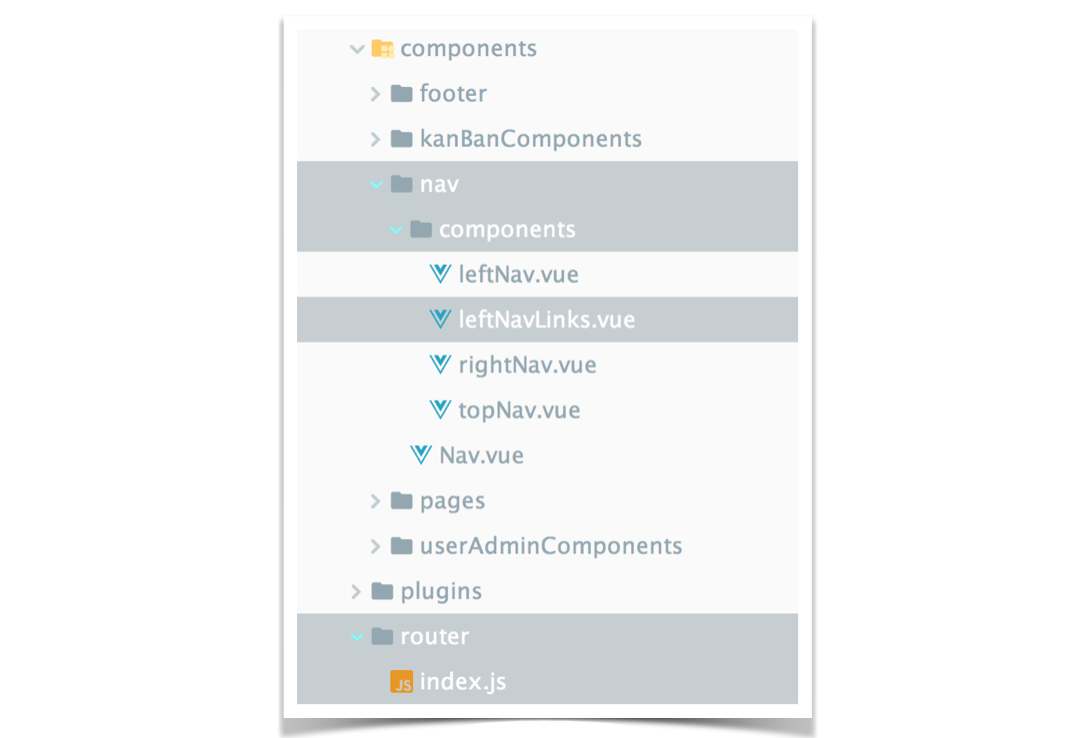
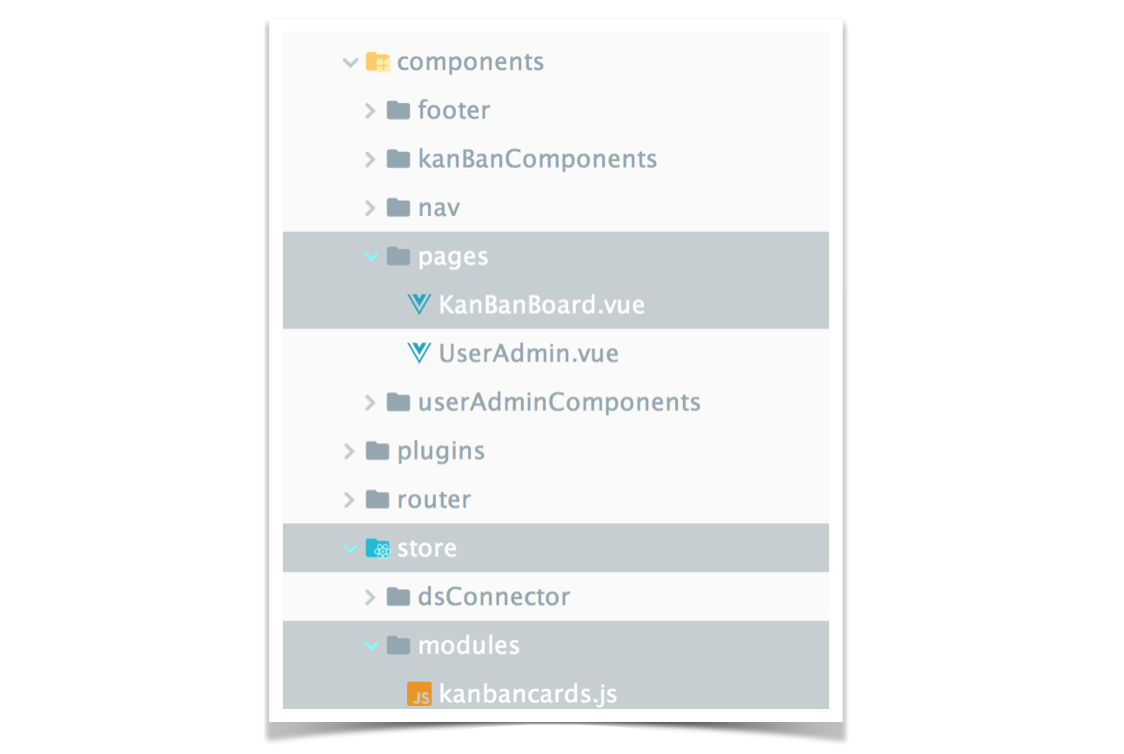
updated Readme 📖

Changed region(s): [[0.2139, 0.0312, 0.7639, 1.0]]

diff --git a/README.md b/README.md
@@ -1,30 +1,71 @@
-# vue_kanban
+# Exercise 6: _Final Adjustments_
+> Here come the final adjustments _(prove what you have learned)_.
+>
+> You have learned about data-binding, conditionals & loops, components, routing, & the vuex store. Now you are ready to take the final adjustment for getting an awesome working kanban board in Vue.
+>
+> Now have fun with this tutorial! 😏🖳 
 
-> Awesome kanban board
-
-## Build Setup
+## Setup: Keep up & running
 
 ``` bash
+# download branch (make sure you are one level above vueTut)
+git clone origin/exercise/05_knowledge_transfer git@github.com:na018/vue_basics_tut.git vueTut/02_directives && cd vueTut/05_knowledge_transfer
+
+#prerequisite: node.js is installed
+node -v                                      #returns for example v8.2.1
+
 # install dependencies
-npm install
+npm i
 
-# serve with hot reload at localhost:8080
-npm run dev
+#start the json mock server (if it's not running already)
+node server.js
 
-# build for production with minification
-npm run build
+# run the application (should open a browser window automatically)
+npm start
 
-# build for production and view the bundle analyzer report
-npm run build --report
-
-# run unit tests
-npm run unit
-
-# run e2e tests
-npm run e2e
-
-# run all tests
-npm test
 ```
+--------------
+## todo
+in src/store/modules/kanbancards.js:
+1. |KB-9| define status type _(e.g. status: ['inProgress', 'done'...])_ 
 
-For a detailed explanation on how things work, check out the [guide](http://vuejs-templates.github.io/webpack/) and [docs for vue-loader](http://vuejs.github.io/vue-loader).
+    used in 'src/components/kanBanComponents/KanBanColumn.vue' defining the columns, 
+
+    in 'src/components/kanBanComponents/KanBanCard.vue' defining the card view & in 'src/store/modules/kanbancards.js' `receiveAllCards()` for Ordering the cards by status
+2. |KB-9| implement `getStatus` getter returning the status possibilities of the kanban column & card status types _(e.g. inProgress, done)_
+
+In src/components/pages/KanBanBoard.vue:
+
+3. |KB-9| create 'm-kan-ban-column' for each status defined in the vuex store 'src/store/modules/kanbancards.js
+
+-------------------
+## Result _(finshed application 🎉)_
+![kanban board](static/img/readme/boardPreview.gif "kanban board")
+
+
+--------------------
+## Project Architecture
+![folder structure](static/img/readme/folderStructure.png "folder structure")
+![KanBan Project Architecture](static/img/readme/ProjectArchitecture.png "KanBan Project Architecture")
+-------------------
+
+-------------------
+
+### Team
+Nadin-Katrin Apel, Alex Schübl, David Bochan
+ ![Team photo](static/img/readme/team.jpg "Team")
+ 
+ Professor: _Prof. Dr. Fridtjof Toenniessen_
+-------------------
+ 
+### Further Suggestions
+_(Awesome that you kept reading til down here)_
+
+If you made it till here, you hopefully have a working kanban board now. 😏🎉 -
+
+Prove your result here [Finished KanBan Board](https://github.com/na018/vue_basics_tut/tree/origin/exercise/06_finishedApp)
+
+ ![Good luck](static/img/readme/luck.jpg "Kleeblatt")
+
+ 
+ 
